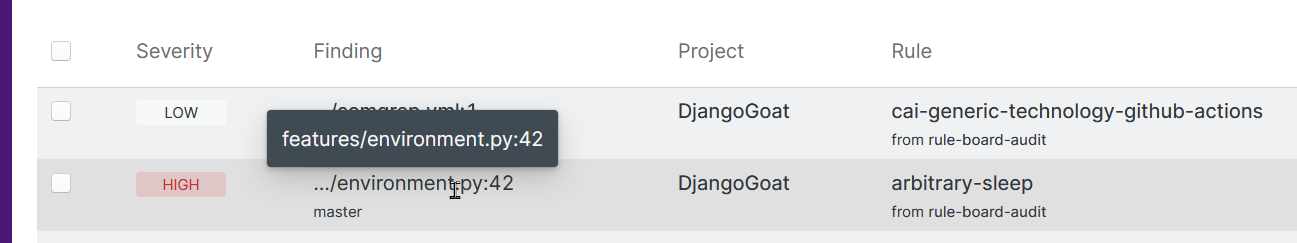
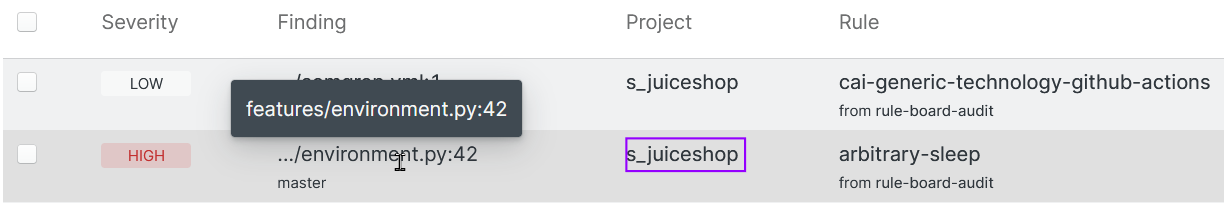
update screenshots

diff --git a/docs/semgrep-app/getting-started-with-semgrep-app.md b/docs/semgrep-app/getting-started-with-semgrep-app.md
@@ -60,6 +60,20 @@ This section explains why Semgrep App requires specific permissions. Semgrep App
     <dd>Enables Semgrep App to start or stop scans on the repository and commit files for continuous integration.</dd>
 </dl>
 
+The GitHub integration app is called `semgrep-app`. This app is used to integrate Semgrep into GitHub repositories. It requires the following permissions:
+
+<dl>
+    <dt>Read and write permissions to <a href="https://docs.github.com/en/actions">GitHub Actions</a></dt>
+    <dd>Allows Semgrep App to cancel stuck jobs, rerun jobs, pull logs from jobs, and perform on-demand scanning.</dd>
+    <dt>Read permissions to <a href="https://docs.github.com/en/rest/reference/checks">GitHub Checks</a></dt>
+    <dd>Facilitates debugging of Semgrep App when configured out of GitHub Actions.</dd>
+    <dt>Read and write to GitHub Security Events</dt>
+    <dd>Enables integration with the GitHub Advanced Security to show Semgrep results.</dd>
+    <dt><code>.semgrepignore</code> single-file access</dt>
+    <dd>Allows debugging of requests and automatic syncing of <code>.semgrepignore</code> between the Semgrep App UI and what is checked into the repository.</dd>
+    <dt>Read/write GitHub secrets</dt>
+    <dd>Enables automatically adding of the Semgrep App Token to your repository secrets when onboarding projects. This simplifies bulk onboarding of repositories. <strong>Semgrep App cannot read the values of your existing or future secrets due to the security design of GitHub Secrets.</strong> This permission only permits Semgrep App to know the secret name and programmatically adds the Semgrep token to your repository secrets.</dd>
+</dl>
 
 ### Signing in with GitLab
 
@@ -96,7 +110,6 @@ A **project** is a repository from either:
 * Your GitHub or GitLab account that you add to Semgrep App for scanning. Projects from GitHub or GitLab are integrated through Semgrep App.
 * A local Git repository in your machine. Projects from your local machine are integrated through Semgrep CLI.
 
-
 Semgrep App can run scans on many projects with rules set in the Rule Board. First-time Semgrep App users scan projects with pre-selected rules chosen based on the repository's language and framework. To view these pre-selected rules, see the [Registry default ruleset](https://semgrep.dev/p/default).
 
 Over time, users modify the Rule Board with rules specific to their codebase's security or business goals.  
@@ -130,7 +143,10 @@ Scans from local repositories do not access their corresponding remote repositor
 ![Screenshot of findings page snippet with no hyperlinks](../img/findings-no-hyperlinks.png "Screenshot of findings page snippet with no hyperlinks")
 *Figure 1.* Partial screenshot of findings page with no hyperlinks.
 
-Local repository scans require additional configuration to link to their corresponding remote repositories. Set up environment variables within your command line to configure cross-linking between local and remote repositories within Semgrep App.
+Local repository scans require additional configuration to **create hyperlinks to their corresponding remote repositories**. Set up environment variables within your command line to configure cross-linking between local and remote repositories within Semgrep App.
+
+![Screenshot of sample environment variables on a Linux shell](../img/app-ci-setenvvar.png "Screenshot of sample environment variables on a Linux shell")
+*Figure 2.* Sample environment variables set up on a Linux shell.
 
 To set up environment variables:
 
@@ -187,6 +203,10 @@ commit fa4e36b9369e5b039bh2220b5h9R61a38b077f29 (HEAD -> s_juiceshop, origin/mas
 # Set the commit hash
 $> export SEMGREP_COMMIT=fa4e36b9369e5b039bh2220b5h9R61a38b077f29
  ```
+
+![Screenshot of findings page snippet with hyperlinks](../img/findings-with-hyperlinks.png "Screenshot of findings page snippet with hyperlinks")
+
+*Figure 3.* Partial screenshot of findings page with hyperlinks.
 
 #### Option B: Adding a cloud repository from GitHub or GitLab
 
